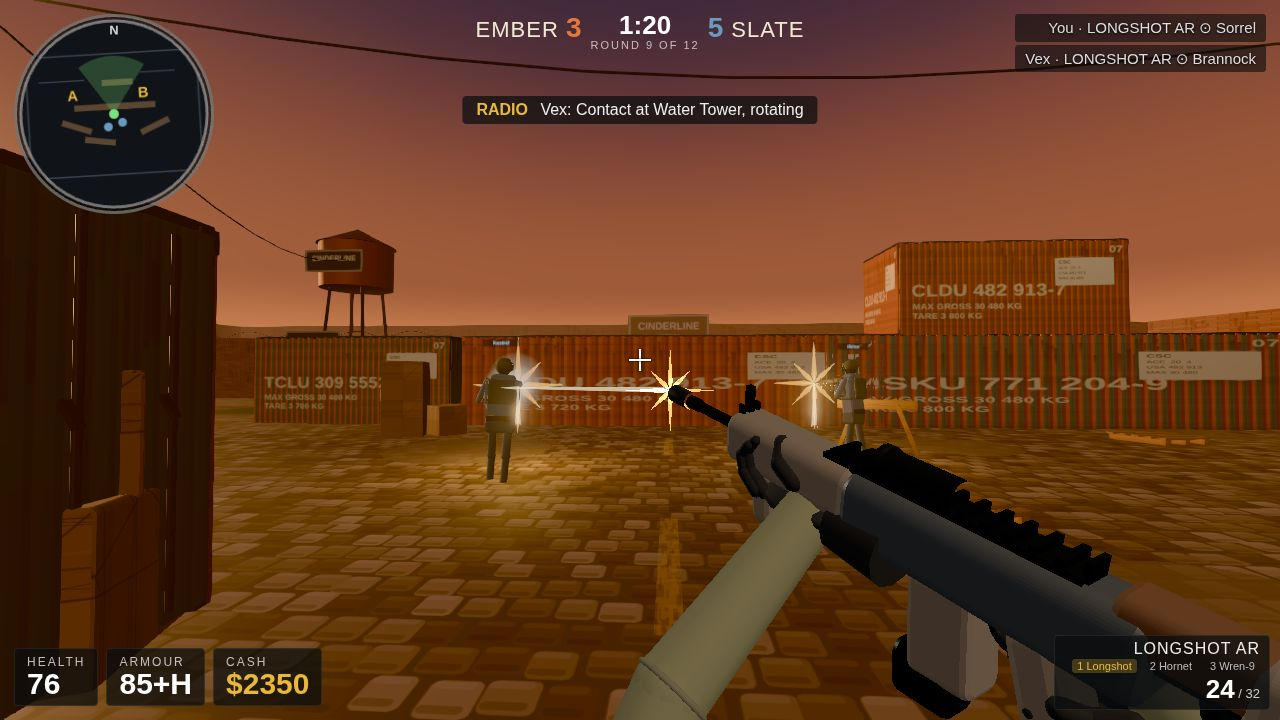
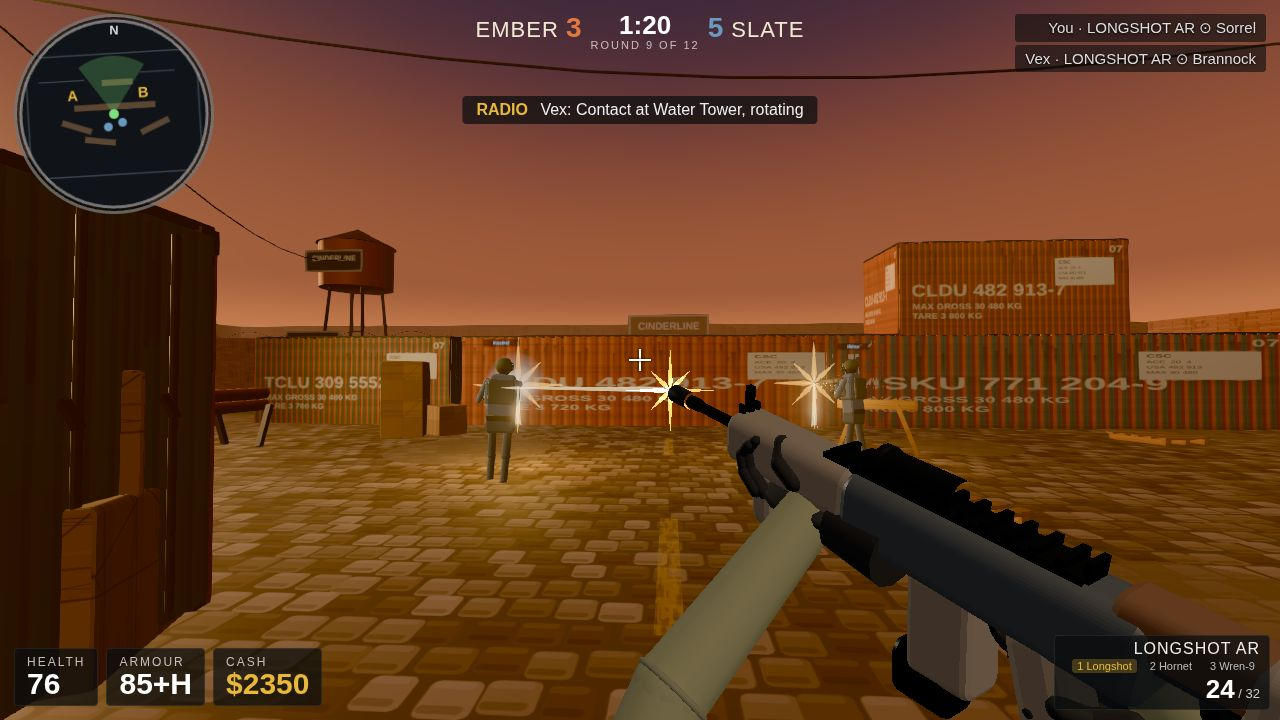
P7: left side detail — pipe rack (4 rusted pipes), 3 rusted drums, 2 pallets, cable spool + ground cable, directed spotlight (SpotLight 150), barbed wire on left container roof; left mid-ground no longer bare; combat re-shot OK

Changed region(s): [[0.1562, 0.4583, 0.5, 0.7028], [0.1562, 0.7333, 0.1875, 0.7639]]

diff --git a/game/src/map.js b/game/src/map.js
@@ -332,6 +332,104 @@ export function buildMap(scene, rng) {
   }
   for (let i = 0; i < helixPts.length - 1; i++) map.add(tube(helixPts[i], helixPts[i + 1], 0.012, wireMat, 5));
 
+  // ---- LEFT SIDE DETAIL (P7): the left mid-ground was bare cobble ----
+  // The right side has stacked containers + pallet + drum in the mid-ground;
+  // the left had only a lamp post + a container + empty cobble. Add: pipe
+  // rack, rusted drum cluster, pallets, cable spool + ground cable, a
+  // directed SPOTLIGHT, and barbed wire on the left perimeter wall.
+  // Positions avoid: site A (-18..-10, -12..-4), mid wall (z -14),
+  // water tower (-19,-16), left containers, existing drums (-12.5,1.5).
+  const rustMat = new THREE.MeshStandardMaterial({ color: 0x7a3a22, metalness: 0.3, roughness: 0.8 });
+  const rustDrumMat = new THREE.MeshStandardMaterial({ color: 0x6a3a28, metalness: 0.4, roughness: 0.75 });
+  // pipe rack: 4 rusted pipes stacked 2x2 on A-frame supports, along z
+  function pipeRack(x, z, ry = 0) {
+    const g = new THREE.Group();
+    for (const s of [-1, 1]) {
+      for (const sz of [-1.6, 1.6]) {
+        const leg = box(0.1, 0.9, 0.1, legMat);
+        leg.position.set(s * 0.5, 0.45, sz);
+        leg.rotation.x = -s * 0.3;
+        g.add(leg);
+      }
+    }
+    for (const [px, py] of [[-0.14, 0.85], [0.14, 0.85], [-0.14, 1.1], [0.14, 1.1]]) {
+      const p = new THREE.Mesh(new THREE.CylinderGeometry(0.12, 0.12, 4, 12), rustMat);
+      p.rotation.x = Math.PI / 2;
+      p.position.set(px, py, 0);
+      g.add(p);
+    }
+    g.position.set(x, 0, z);
+    g.rotation.y = ry;
+    map.add(g);
+    return g;
+  }
+  pipeRack(-9, 4, 0); // R2: was (-22,0) — tersembunyi di balik kontainer gelap dari kamera side-left; kini di tengah lane kiri, terlihat
+  // rusted drum cluster (3) near the pipe rack
+  drum(-14, 6, rustDrumMat); drum(-13.2, 6.6, rustDrumMat); drum(-13.6, 5.2, drumMat2); // R2: was (-20,5) — sama, tersembunyi; kini di samping lampu kiri
+  // pallets: the left mid-ground had none (right has one at (11,0.5))
+  pallet(-13, 9, 0.3); pallet(-12, 10.5, 0.9);
+  // cable spool + ground cable run to the left wall
+  const spool = new THREE.Group();
+  const spoolCore = new THREE.Mesh(new THREE.CylinderGeometry(0.45, 0.45, 0.7, 14), woodMat);
+  spoolCore.rotation.z = Math.PI / 2;
+  spoolCore.position.y = 0.7;
+  spool.add(spoolCore);
+  for (const sx of [-0.4, 0.4]) {
+    const disc = new THREE.Mesh(new THREE.CylinderGeometry(0.7, 0.7, 0.08, 14), woodMat);
+    disc.rotation.z = Math.PI / 2;
+    disc.position.set(sx, 0.7, 0);
+    spool.add(disc);
+  }
+  spool.position.set(-16, 0, 10);
+  spool.rotation.y = 0.5;
+  map.add(spool);
+  // ground cable: sagging tube from the spool to the pipe rack (visible
+  // across the open left floor). R2: was ke dinding kiri (-33,6) — di luar
+  // frame + terlalu tipis/gelap; kini radius 0.05, rute pendek yang terlihat.
+  const cablePts = [];
+  for (let i = 0; i <= 8; i++) {
+    const t = i / 8;
+    const p = new THREE.Vector3().lerpVectors(new THREE.Vector3(-16, 0.05, 10), new THREE.Vector3(-9, 0.05, 4), t);
+    p.y += Math.sin(t * Math.PI) * 0.06;
+    cablePts.push(p);
+  }
+  for (let i = 0; i < cablePts.length - 1; i++) map.add(tube(cablePts[i], cablePts[i + 1], 0.05, cableMat, 6));
+  // directed SPOTLIGHT on a pole (left side was lit only by a general lamp)
+  const spot = new THREE.Group();
+  spot.position.set(-18, 0, 12);
+  const spotPole = new THREE.Mesh(new THREE.CylinderGeometry(0.09, 0.12, 7, 10), legMat);
+  spotPole.position.y = 3.5;
+  spot.add(spotPole);
+  const spotHead = box(0.7, 0.3, 0.25, new THREE.MeshStandardMaterial({ color: 0x222222, metalness: 0.6, roughness: 0.5 }));
+  spotHead.position.set(0, 7.1, 0);
+  spotHead.rotation.x = 0.9; // aimed down into the yard
+  spot.add(spotHead);
+  const spotGlow = new THREE.Sprite(new THREE.SpriteMaterial({ map: glowTex, transparent: true, opacity: 0.85, depthWrite: false }));
+  spotGlow.scale.set(1.8, 1.8, 1);
+  spotGlow.position.set(0, 7.1, 0.3);
+  spot.add(spotGlow);
+  const spotLight = new THREE.SpotLight(0xffd9a0, 150, 30, 0.55, 0.5, 1.5); // 150: jarak target ~23 m, decay 1.5 -> pool terang di lantai
+  spotLight.position.set(0, 7, 0);
+  spotLight.target.position.set(18, 0, -12); // aimed at the yard centre
+  spot.add(spotLight);
+  spot.add(spotLight.target);
+  map.add(spot);
+  // barbed wire helix on the DARK LEFT CONTAINER roof (CLDU 771 330-1 at
+  // (-15,4.5), rot 0.35 — foreground-left di kamera side-left, jadi wire
+  // terlihat). R2: was di dinding perimeter kiri (x -34) — di luar frame.
+  const wirePts2 = [];
+  const cax = Math.cos(0.35), caz = -Math.sin(0.35); // container long axis
+  const cpx = Math.sin(0.35), cpz = Math.cos(0.35); // perpendicular axis
+  for (let i = 0; i <= 60; i++) {
+    const t = i / 60;
+    const along = (t - 0.5) * 5.5;
+    wirePts2.push(new THREE.Vector3(
+      -15 + along * cax + Math.cos(t * Math.PI * 10) * 0.15 * cpx,
+      2.75 + Math.sin(t * Math.PI * 10) * 0.15,
+      4.5 + along * caz + Math.cos(t * Math.PI * 10) * 0.15 * cpz));
+  }
+  for (let i = 0; i < wirePts2.length - 1; i++) map.add(tube(wirePts2[i], wirePts2[i + 1], 0.02, wireMat, 5)); // R3: radius 0.012 -> 0.02 (di R2 terlalu tipis, tidak kebaca)
+
   // ---- site floors ----
   // Site A: green tiles (Kilnyard shot 2) + charge device
   const siteA = new THREE.Group();
